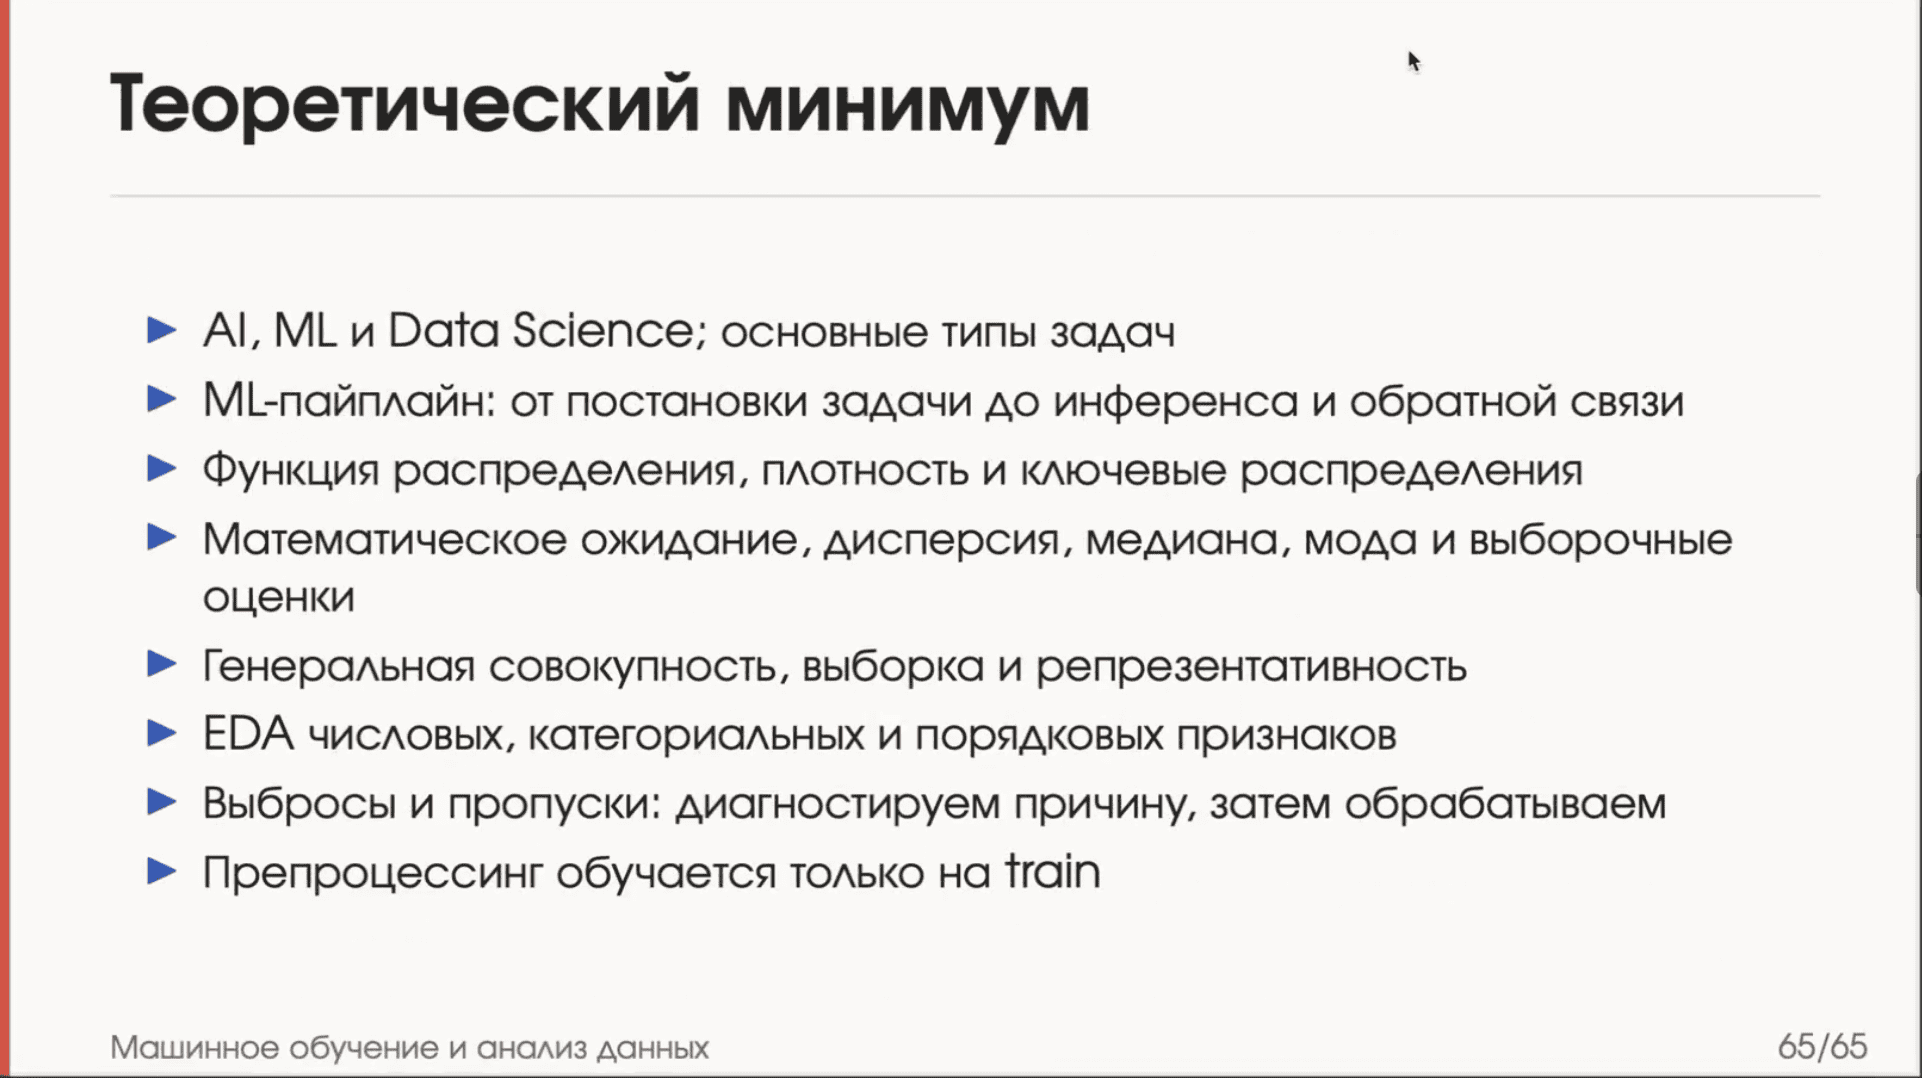
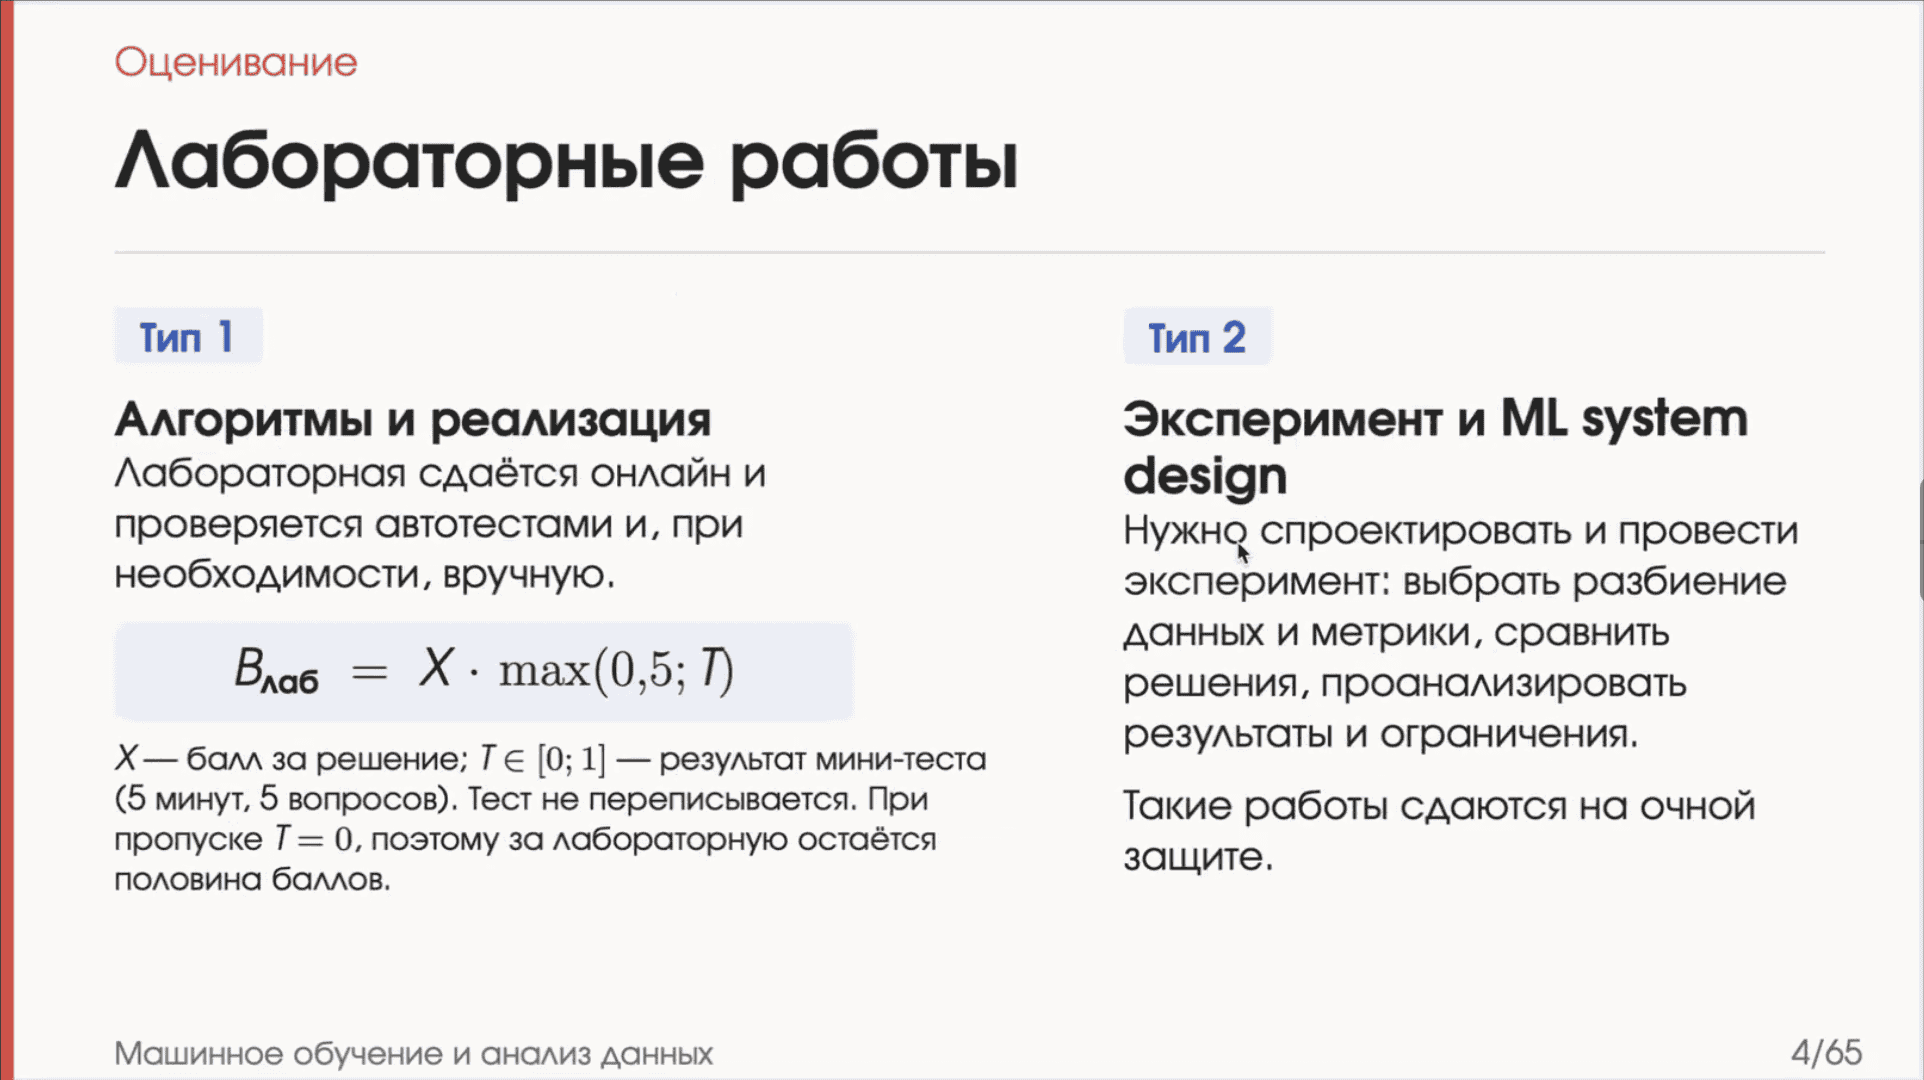
feat(ml-lecture-1): add presentation slides images

Changed region(s): [[0.0624, 0.2755, 0.9365, 0.8265], [0.0, 0.0, 1.0, 1.0], [0.0624, 0.0306, 0.5931, 0.1837]]

diff --git a/content/posts/ml/lecture-01/index.md b/content/posts/ml/lecture-01/index.md
@@ -21,6 +21,8 @@ authors:
 1. **С автопроверкой** — скрытые тесты, CI/CD в GitHub, принцип «всё или ничего». Балл за лабу домножается на коэффициент, полученный на практике (за тест можно получить от 0 до 1, но коэффициент ниже 0.5 не упадёт, т.е. чтобы получить больше, нужно решить более 3х задач из 5 в тестике)
 2. **Без автопроверки** — с код-ревью в гитхабе или устной защитой
 
+![два типа лаб](images/image2.png)
+
 Всего: 7 лаб с автопроверкой + 7 без автопроверки. (возможно и другое количество, но верхняя планка 15 лаб, если что-то успеваться не будет, то может и меньше, дд неделя, будет лаба покрупнее на 2 недели)
 
 ### Рубежки
@@ -60,6 +62,8 @@ authors:
 
 #### Биномиальное
 
+![биномиальное](images/image3.png)
+
 Число успехов в $n$ **независимых** испытаниях. Именно оно возникает в бинарной классификации, с которой мы будем работать: из него выводятся функции, оптимизирующие предсказание.
 
 Когда использовать **нельзя** — когда эксперименты зависимы. 
@@ -67,6 +71,8 @@ authors:
 Пример: предсказываем клики пользователей по рекламе. 10 кликов подряд — явно зависимые события: если пользователь кликнул на баннер с AI-generated изображением, скорее всего кликнет на такой же и в следующий раз.
 
 #### Пуассона
+
+![пуассона](images/image4.png)
 
 Число событий на фиксированном интервале при постоянной средней интенсивности. Примеры: сколько звонков поступит за час, сколько привезут заказов, сколько за час умрёт людей.
 
@@ -78,15 +84,21 @@ authors:
 
 #### Равномерное
 
+![равномерное](images/image5.png)
+
 Случайная величина ξ имеет равномерное распределение $U(a, b)$, $a < b$, если её плотность постоянна на $[a; b]$.
 
 В ML почти не используется: мир неравномерный. Возникает только тогда, когда мы сами случайно выбираем что-то из чего-то — например, вытаскиваем шары из коробки, где вероятность у всех шаров примерно одинаковая.
 
 #### Показательное
 
+![показательное](images/image6.png)
+
 Ключевое — **свойство нестарения**: если вы три часа не выигрывали в казино и потратили почти все деньги, вероятность выигрыша от этого не меняется. Поэтому гемблинг — это плохо. Возникает повсюду, в биологии особенно.
 
 #### Нормальное (гауссовское)
+
+![нормальное](images/image7.png)
 
 Самое частое распределение. В ML конкретно возникает, когда мы хотим уравновесить ошибки: мы будем стараться, чтобы ошибки наших предсказаний подходили под нормальное распределение. Это вид шума. Когда дойдём до линейной регрессии, сразу введём, что ошибка принадлежит нормальному распределению с одинаковой дисперсией, и дальше всегда будем опираться на то, что строим модели, подгоняя их ошибку под нормальность.
 
@@ -94,11 +106,15 @@ authors:
 
 #### Log-нормальное
 
+![log-нормальное](images/image8.png)
+
 Взяли нормальное распределение и возвели $e$ в его степень.
 
 Возникает в биологии постоянно. Пример: измеряем ферритин у людей — у большинства он в норме (есть пик), но есть больные люди в хвосте. Возможно, в курсе будет биологический датасет; в прошлом году всем было тяжело, потому что биологию никто не знает.
 
 #### Хи-квадрат
+
+![хи-квадрат](images/image9.png)
 
 Распределение суммы квадратов независимых стандартных нормальных величин.
 
@@ -106,11 +122,14 @@ authors:
 
 #### Стьюдента
 
+![стьюдента](images/image10.png)
+
 Распределение с «длинными хвостами». Используется, когда есть выбросы, которые мы не хотим сильно учитывать.
 
 Почему часто используем вместо нормального: **по краям у него не нули**. Это помогает, например, в алгоритмах кластеризации, когда нужно учитывать очень далёкие расстояния как всё ещё существующие, а не бесконечные.
 
 #### Фишера
+
 
 Статистические гипотезы — разберём на следующей лекции. Формулу лучше помнить.
 
@@ -123,9 +142,13 @@ authors:
 - **Мода** — самое часто встречающееся значение, верхушка плотности распределения.
 - **Межквартильный размах (IQR)** — разность квантиля 0,75 и квантиля 0,25. Показывает, в насколько широкий диапазон попадает средняя половина значений.
 
+![описательные характеристики](images/image11.png)
+
 ### Выборки
 
 Мы работаем не с бесконечными выборками, а с ограниченным количеством наблюдений — это и есть **выборка**. Хотим, чтобы она была **репрезентативной**.
+
+![картинка совокупностей](images/image12.png)
 
 **Генеральная совокупность** — все значения, которые вообще когда-либо существуют. Её мы никогда не добьёмся: люди рождаются, умирают, обо всех всё знать невозможно. Поэтому берём ограниченное количество наблюдений и пытаемся приблизить генеральную совокупность.
 
@@ -170,6 +193,8 @@ authors:
 
 ### Типы переменных
 
+![типы переменных](images/image13.png)
+
 Тип определяется смыслом. Три основных типа (потом, в deep learning, всё усложнится):
 
 **1. Числовые** — те, что обладают непрерывными распределениями.
@@ -186,11 +211,17 @@ authors:
 
 Модели работают только с числами, поэтому категории нужно как-то представить численно.
 
+![плохой пример категориальных признаков](images/image14.png)
+
 **Плохо:** задать 0 = красный, 1 = зелёный, 2 = синий. Появляется порядок, которого в данных нет: красный «меньше» зелёного. Рандомные числа тоже не спасают — порядок всё равно остаётся, а нам нужно от порядка избавиться.
+
+![one-hot-encoding](images/image15.png)
 
 **One-Hot Encoding:** создаём новые фичи — «является ли объект красным», «зелёным», «синим» — и ставим единичку только там, где объект действительно такой. Колонки несовместны: единичка не может быть одновременно в синей и в зелёной.
 
 Проблема One-Hot: рост размерности датасета и разреженность. Появляется очень много столбцов, где мало единичек и очень много нулей; модель может просто забить и решить, что это ни на что не влияет. Чем больше категорий — тем чаще так происходит.
+
+![порядковые переменные](images/image16.png)
 
 **Порядковые переменные:** One-Hot может подойти, если модель сама выучит ранжирование — такое случается, но лучше так не делать. Обычно просто ставим числа в правильном порядке. Данные о том, что разница между категориями разная, теряются, но хоть так.
 
@@ -274,6 +305,8 @@ authors:
 
 ### Вино
 
+![датасет вина](images/image17.png)
+
 - 178 наблюдений; единица наблюдения — образец вина.
 - Признак: регион Италии, из которого взят образец.
 - 13 числовых признаков: процентное содержание кислот, интенсивность цвета, содержание пролина и т. д.
@@ -281,6 +314,10 @@ authors:
 - Пропусков нет.
 
 Интенсивность цвета можно кодировать и как числовую, и как порядковую фичу; в самом датасете она уже приведена к числовой.
+
+![датасет вина 1](images/image18.png)
+![датасет вина 2](images/image19.png)
+![датасет вина 3](images/image20.png)
 
 Что увидели:
 
@@ -292,10 +329,15 @@ authors:
 
 ### Пингвины
 
+![датасет пингвинов](images/image21.png)
+
 - 344 наблюдения, 7 признаков: длина крыла, длина клюва, высота клюва, масса тела, порода, пол и т. д.
 - 19 пропусков (см. раздел про пропуски).
 
 Что увидели:
+
+![датасет пингвинов](images/image22.png)
+![датасет пингвинов](images/image23.png)
 
 - На зависимости длины клюва от высоты клюва отчётливо выделяется синий кластер; зелёный и красный отделить друг от друга тяжелее, но можно.
 - Бокс-плот: распределения в каждом классе действительно отличаются, но у первых двух классов очень похожие распределения массы тела.
@@ -303,4 +345,4 @@ authors:
 
 ***
 
-![теоретический минимум](images/image2.png)
+![теоретический минимум](images/image-.png)
